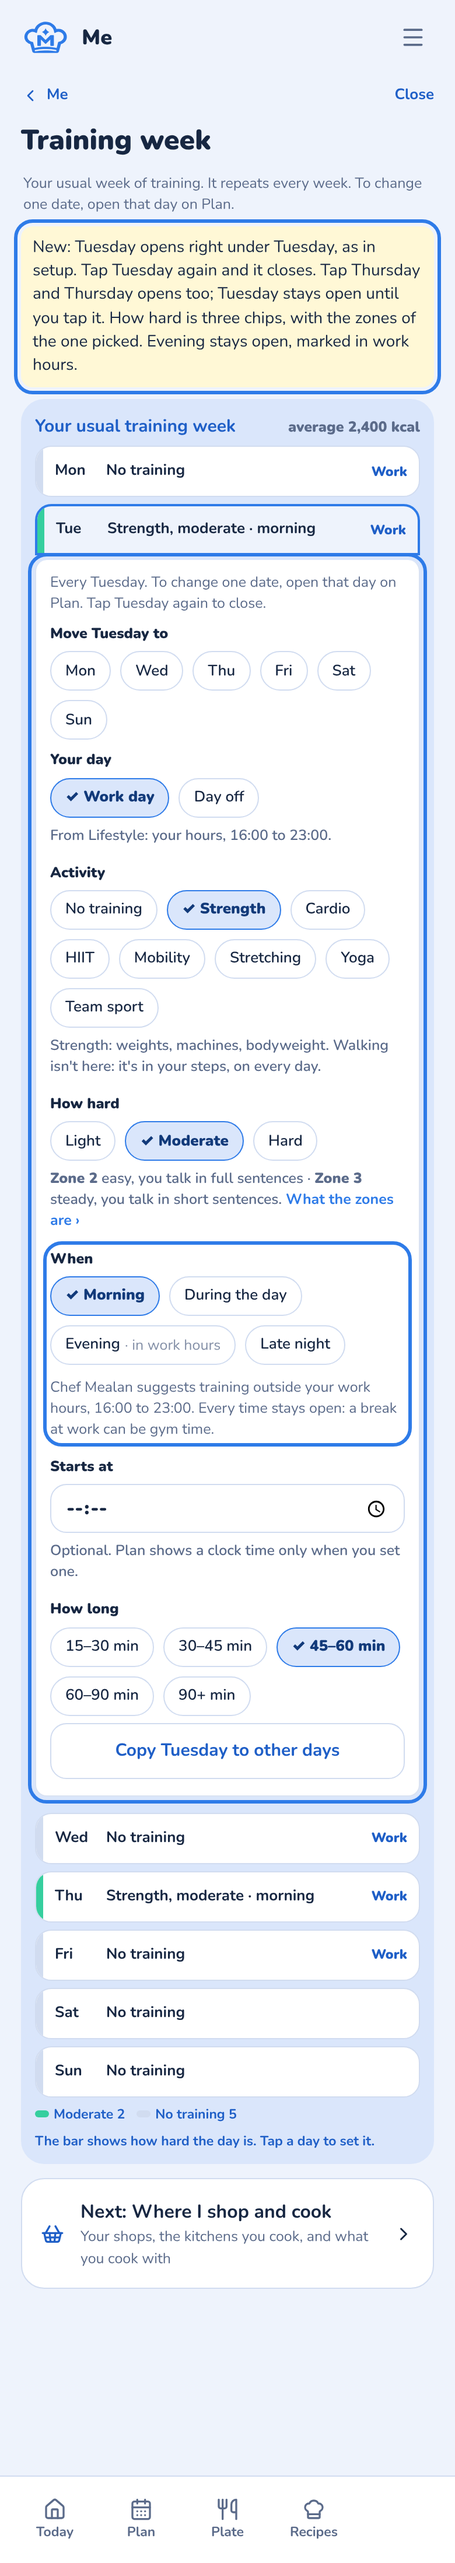
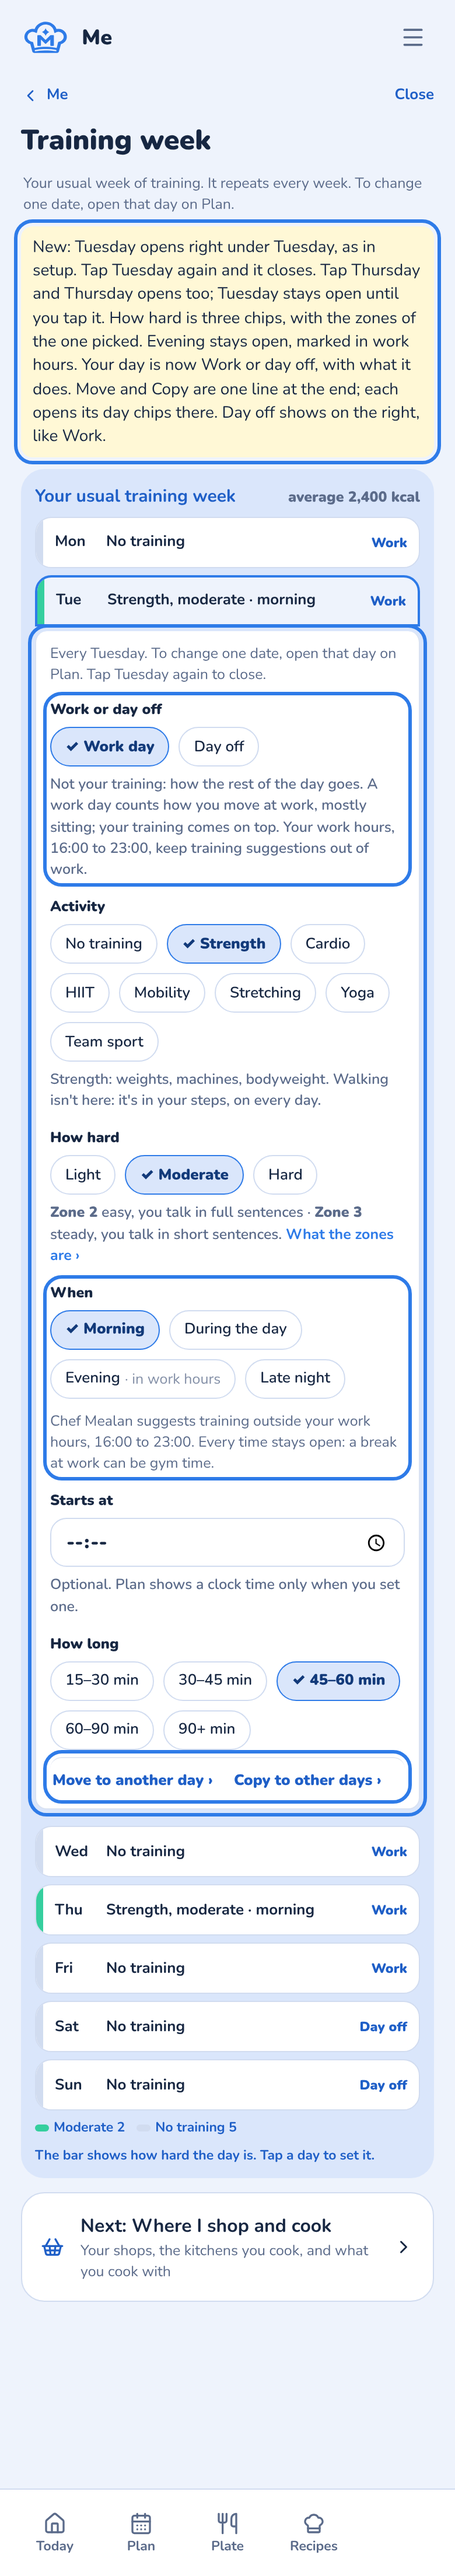
Board Stories99, DT147: Work or day off, Move and Copy in one line, Day off on the right
Claude-Session: https://claude.ai/code/session_01BtJPGKTfK5KfbXuNDmfhQP

diff --git a/design/boards/genDT147.py b/design/boards/genDT147.py
@@ -88,8 +88,8 @@ cy = storyCard(B, y, "DT147", "Your own work hours, and your day around them (ve
   ("Tester 3, UX1 (Coach Milan, 28 October)", "Marko works Canadian hours from Cyprus. Working hours offers only 9 to 5, 8 to 4 and 7 to 3. None fits him. On his iPhone the meal times on the right ran past the card. On Training week, a tapped day opened out of sight."),
   ("Now, checked in 0.2.127", "Whatever is picked changes nothing. Meal times stay 07:30, 13:45, 20:00. Training stays where it was set. Chef Mealan's chat does not know the work hours. Meal times sit two in a row, and Safari gives a time field a minimum width. Training week opens a day below the whole week."),
   ("Lifestyle", "Working hours keeps the three chips and adds a fourth: My hours, with From and To. Hours past midnight work too; the line says the hours are your time. Meal times you have not set yourself fit around work. Day work: breakfast before work, lunch at the halfway break, dinner after. Late work, like 16:00 to 23:00: breakfast late morning, the main meal about an hour before work, a small meal at the break. Chef Mealan's chat knows the hours. Every time is one line: the name left, the time right. How you eat is now What you eat."),
-  ("Training week", "Tap a day and it opens right under itself, as in setup. A second tap on the same day closes it. Tapping another day opens that one too; the first stays open. How hard is three chips, with the zones of the one picked. Chef Mealan suggests training outside work hours. Every time stays open, evening too: a break at work can be gym time."),
-  ("Coach Milan, 28 October 22:02 to 22:39", "Don't disable Evening. What you eat. Times one per line. Open the day in place; close it only on a second tap on the same day."),
+  ("Training week", "Tap a day and it opens right under itself, as in setup. A second tap on the same day closes it. Tapping another day opens that one too; the first stays open. How hard is three chips, with the zones of the one picked. Your day becomes Work or day off, with one line on what it does: not your training, but how the rest of the day goes; a work day counts how you move at work, and training comes on top. Move and Copy are one line at the end of the open day: Move to another day, Copy to other days; each opens its day chips right there. A day without training shows only Copy. Day off shows at the right end of its row, like Work. Chef Mealan suggests training outside work hours. Every time stays open, evening too: a break at work can be gym time."),
+  ("Coach Milan, 28 October 22:02 to 22:39", "Don't disable Evening. What you eat. Times one per line. Open the day in place; close it only on a second tap on the same day. (22:51 to 22:55) Move to takes space for a one time setup: one line with Copy at the bottom. Say what Your day means. Day off on the right, like Work."),
   ("Always", "Times you set yourself win. Changing work hours never moves a meal time or a training time you set."),
 ])
 h = rowEnd(cy,
@@ -98,7 +98,7 @@ h = rowEnd(cy,
 y = h
 h = rowEnd(y + 10,
   B.screen("DT147c", 0, y, "Now: the day opens below the week", "r147c", "now", "Tuesday opens after Sunday, off screen."),
-  B.screen("DT147d", 1, y, "New: the day opens under itself", "r147d", "changed", "Tap again to close. Morning suggested; evening stays open."))
+  B.screen("DT147d", 1, y, "New: the day opens under itself", "r147d", "changed", "Work or day off, Move and Copy in one line, Day off on the right."))
 y = h
 board("Stories99.dc.html", "DT147. Your own work hours, and your day around them",
   "28 October 2026 (Tester 3, UX1), version 2. Now: 0.2.127, untouched. Drawn for your approval; nothing built.",
